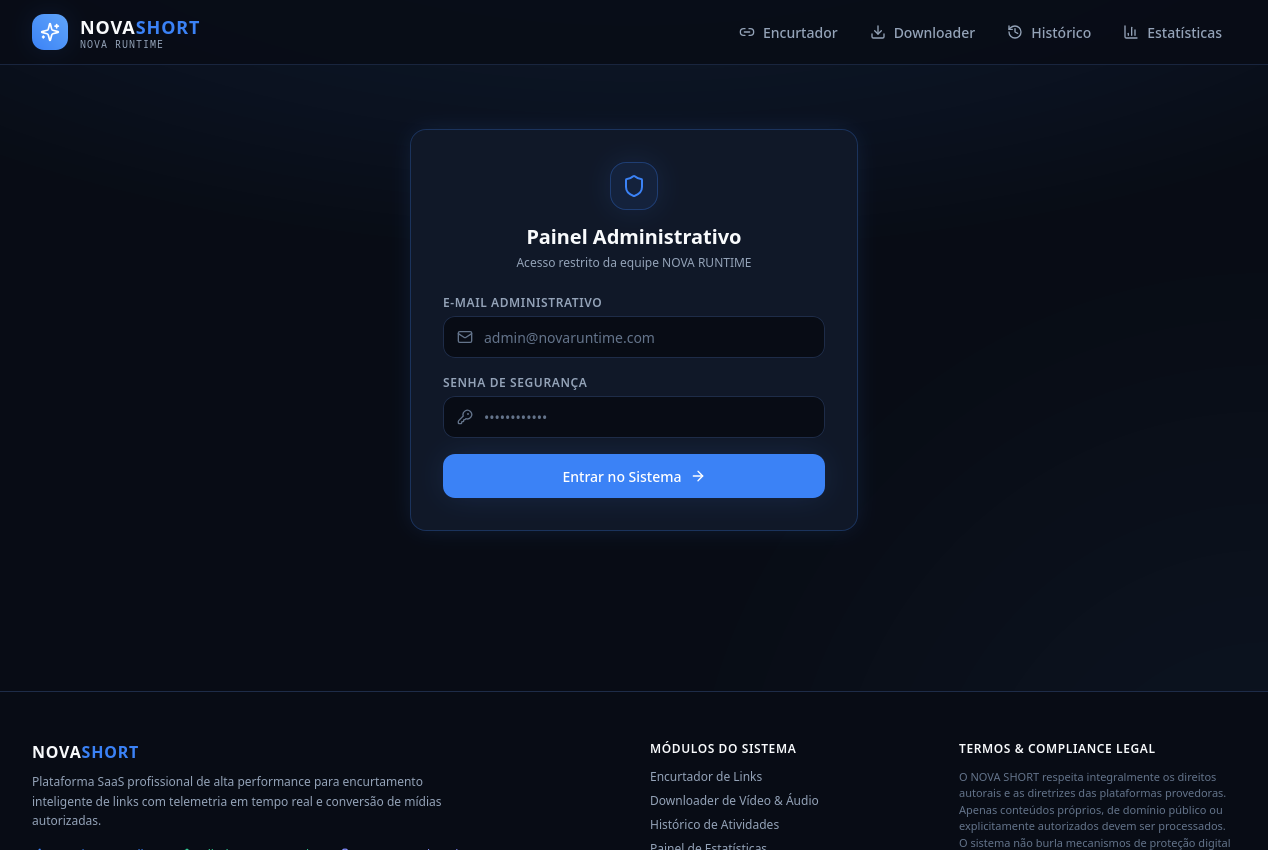
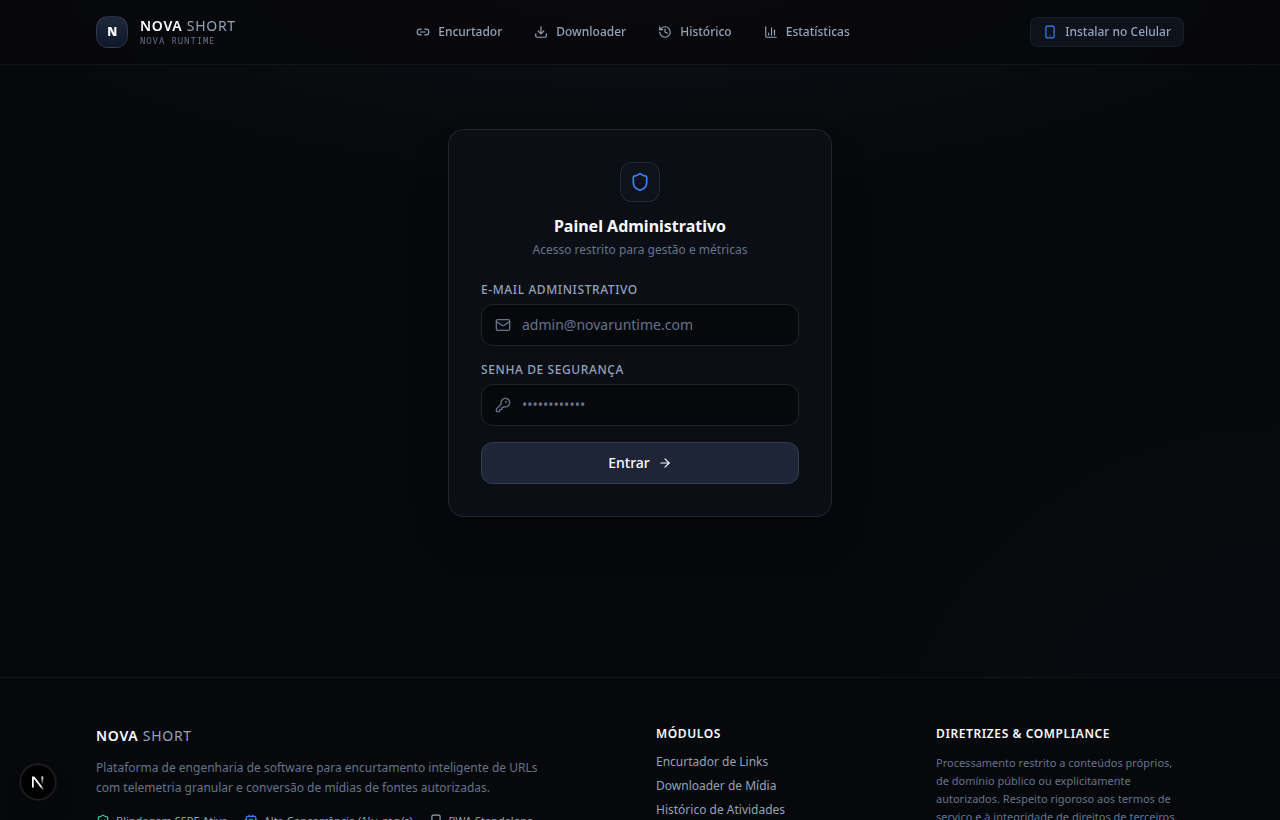
docs(screenshots): atualizar capturas de tela reais da interface obsidian noir e pwa mobile

diff --git a/src/components/PWAInstallModal.tsx b/src/components/PWAInstallModal.tsx
@@ -1,6 +1,7 @@
 "use client";
 
 import { useState, useEffect } from "react";
+import { createPortal } from "react-dom";
 import { Smartphone, Download, Share, PlusSquare, X, CheckCircle2 } from "lucide-react";
 
 interface BeforeInstallPromptEvent extends Event {
@@ -14,20 +15,19 @@ export function PWAInstallModal() {
   const [isIOS, setIsIOS] = useState(false);
   const [isStandalone, setIsStandalone] = useState(false);
   const [installed, setInstalled] = useState(false);
+  const [mounted, setMounted] = useState(false);
 
   useEffect(() => {
-    // Detectar se já está rodando como PWA instalado (standalone)
+    setMounted(true);
     const isStandaloneMode =
       window.matchMedia("(display-mode: standalone)").matches ||
       (window.navigator as unknown as { standalone?: boolean }).standalone === true;
     setIsStandalone(isStandaloneMode);
 
-    // Detectar se é dispositivo iOS
     const ua = window.navigator.userAgent.toLowerCase();
     const isIosDevice = /iphone|ipad|ipod/.test(ua);
     setIsIOS(isIosDevice);
 
-    // Capturar evento de instalação nativo no Android / Chromium
     const handleBeforeInstall = (e: Event) => {
       e.preventDefault();
       setDeferredPrompt(e as BeforeInstallPromptEvent);
@@ -35,7 +35,6 @@ export function PWAInstallModal() {
 
     window.addEventListener("beforeinstallprompt", handleBeforeInstall);
 
-    // Ouvir quando o app for instalado
     window.addEventListener("appinstalled", () => {
       setInstalled(true);
       setDeferredPrompt(null);
@@ -57,15 +56,126 @@ export function PWAInstallModal() {
       }
       setDeferredPrompt(null);
     } else {
-      // Abre o modal informativo com instruções
       setIsOpen(true);
     }
   };
 
-  // Se já estiver em modo app instalado, não precisa exibir botão de instalação
   if (isStandalone || installed) {
     return null;
   }
+
+  const modalContent = isOpen ? (
+    <div
+      role="dialog"
+      aria-modal="true"
+      className="fixed inset-0 z-[9999] flex items-center justify-center p-4 bg-black/80 backdrop-blur-md animate-fade-in"
+      onClick={() => setIsOpen(false)}
+    >
+      <div
+        className="w-full max-w-sm rounded-2xl bg-[#0B0E14] border border-white/10 p-6 text-left shadow-2xl relative"
+        onClick={(e) => e.stopPropagation()}
+      >
+        {/* Fechar */}
+        <button
+          onClick={() => setIsOpen(false)}
+          className="absolute top-4 right-4 p-1.5 rounded-lg text-[#64748B] hover:text-[#F8FAFC] hover:bg-white/5 transition-colors cursor-pointer"
+          aria-label="Fechar"
+        >
+          <X className="w-4 h-4" />
+        </button>
+
+        {/* Cabeçalho */}
+        <div className="flex items-center space-x-3 mb-4">
+          <div className="w-10 h-10 rounded-xl bg-[#0E121B] border border-white/10 flex items-center justify-center text-[#3B82F6] shadow-sm">
+            <Smartphone className="w-5 h-5" />
+          </div>
+          <div>
+            <h3 className="text-sm font-semibold text-[#F8FAFC]">Instalar NOVA SHORT</h3>
+            <p className="text-xs text-[#94A3B8]">Acesse direto da sua tela de início</p>
+          </div>
+        </div>
+
+        {/* Conteúdo com Passo a Passo */}
+        <div className="space-y-3.5 my-5 text-xs text-[#94A3B8]">
+          {isIOS ? (
+            <>
+              <p className="text-[#CBD5E1]">
+                No iPhone/iPad pelo Safari, adicione o ícone em apenas 2 toques:
+              </p>
+              <div className="flex items-start space-x-3 p-3 rounded-xl bg-[#07080B] border border-white/5">
+                <Share className="w-4 h-4 text-[#3B82F6] flex-shrink-0 mt-0.5" />
+                <span>
+                  1. Toque no botão <strong>Compartilhar</strong> (ícone quadrado com seta no rodapé do Safari).
+                </span>
+              </div>
+              <div className="flex items-start space-x-3 p-3 rounded-xl bg-[#07080B] border border-white/5">
+                <PlusSquare className="w-4 h-4 text-[#3B82F6] flex-shrink-0 mt-0.5" />
+                <span>
+                  2. Role a lista e selecione <strong>&quot;Adicionar à Tela de Início&quot;</strong>.
+                </span>
+              </div>
+            </>
+          ) : deferredPrompt ? (
+            <div className="text-center py-2">
+              <p className="text-[#CBD5E1] mb-4">
+                Instale como um aplicativo leve, sem gastar memória da Play Store e com abertura instantânea.
+              </p>
+              <button
+                type="button"
+                onClick={async () => {
+                  if (deferredPrompt) {
+                    await deferredPrompt.prompt();
+                    const choice = await deferredPrompt.userChoice;
+                    if (choice.outcome === "accepted") {
+                      setInstalled(true);
+                      setIsOpen(false);
+                    }
+                  }
+                }}
+                className="w-full inline-flex items-center justify-center space-x-2 py-2.5 px-4 rounded-xl bg-[#1E2536] hover:bg-[#253046] border border-white/10 text-white font-medium text-xs transition-all shadow-md cursor-pointer"
+              >
+                <Download className="w-4 h-4" />
+                <span>Confirmar Instalação</span>
+              </button>
+            </div>
+          ) : (
+            <>
+              <p className="text-[#CBD5E1]">
+                Para fixar o app no seu smartphone Android ou navegador:
+              </p>
+              <div className="flex items-start space-x-3 p-3 rounded-xl bg-[#07080B] border border-white/5">
+                <Download className="w-4 h-4 text-[#3B82F6] flex-shrink-0 mt-0.5" />
+                <span>
+                  1. Toque nos <strong>três pontos</strong> do menu do navegador (topo direito).
+                </span>
+              </div>
+              <div className="flex items-start space-x-3 p-3 rounded-xl bg-[#07080B] border border-white/5">
+                <PlusSquare className="w-4 h-4 text-[#3B82F6] flex-shrink-0 mt-0.5" />
+                <span>
+                  2. Selecione <strong>&quot;Instalar aplicativo&quot;</strong> ou <strong>&quot;Adicionar à tela inicial&quot;</strong>.
+                </span>
+              </div>
+            </>
+          )}
+        </div>
+
+        {/* Rodapé Informativo */}
+        <div className="pt-3 border-t border-white/5 flex items-center justify-between text-[11px] text-[#64748B]">
+          <span className="flex items-center space-x-1.5">
+            <CheckCircle2 className="w-3.5 h-3.5 text-emerald-500" />
+            <span>PWA Standalone • Sem Anúncios</span>
+          </span>
+          <button
+            type="button"
+            onClick={() => setIsOpen(false)}
+            className="text-[#94A3B8] hover:text-[#F8FAFC] transition-colors cursor-pointer"
+          >
+            Fechar
+          </button>
+        </div>
+      </div>
+    </div>
+  ) : null;
 
   return (
     <>
@@ -81,119 +191,7 @@ export function PWAInstallModal() {
         <span className="sm:hidden">App</span>
       </button>
 
-      {/* Modal de Instalação PWA */}
-      {isOpen && (
-        <div
-          role="dialog"
-          aria-modal="true"
-          className="fixed inset-0 z-50 flex items-center justify-center p-4 bg-black/75 backdrop-blur-md animate-fade-in"
-          onClick={() => setIsOpen(false)}
-        >
-          <div
-            className="w-full max-w-sm rounded-2xl bg-[#0B0E14] border border-white/10 p-6 text-left shadow-2xl relative"
-            onClick={(e) => e.stopPropagation()}
-          >
-            {/* Fechar */}
-            <button
-              onClick={() => setIsOpen(false)}
-              className="absolute top-4 right-4 p-1.5 rounded-lg text-[#64748B] hover:text-[#F8FAFC] hover:bg-white/5 transition-colors"
-              aria-label="Fechar"
-            >
-              <X className="w-4 h-4" />
-            </button>
-
-            {/* Cabeçalho */}
-            <div className="flex items-center space-x-3 mb-4">
-              <div className="w-10 h-10 rounded-xl bg-gradient-to-tr from-[#1E293B] to-[#0F172A] border border-white/10 flex items-center justify-center text-[#3B82F6] shadow-sm">
-                <Smartphone className="w-5 h-5" />
-              </div>
-              <div>
-                <h3 className="text-sm font-semibold text-[#F8FAFC]">Instalar NOVA SHORT</h3>
-                <p className="text-xs text-[#94A3B8]">Acesse direto da sua tela de início</p>
-              </div>
-            </div>
-
-            {/* Conteúdo com Passo a Passo */}
-            <div className="space-y-3.5 my-5 text-xs text-[#94A3B8]">
-              {isIOS ? (
-                <>
-                  <p className="text-[#CBD5E1]">
-                    No iPhone/iPad pelo Safari, adicione o ícone em apenas 2 toques:
-                  </p>
-                  <div className="flex items-start space-x-3 p-3 rounded-xl bg-[#07080B] border border-white/5">
-                    <Share className="w-4 h-4 text-[#3B82F6] flex-shrink-0 mt-0.5" />
-                    <span>
-                      1. Toque no botão <strong>Compartilhar</strong> (ícone quadrado com seta no rodapé do Safari).
-                    </span>
-                  </div>
-                  <div className="flex items-start space-x-3 p-3 rounded-xl bg-[#07080B] border border-white/5">
-                    <PlusSquare className="w-4 h-4 text-[#3B82F6] flex-shrink-0 mt-0.5" />
-                    <span>
-                      2. Role a lista e selecione <strong>&quot;Adicionar à Tela de Início&quot;</strong>.
-                    </span>
-                  </div>
-                </>
-              ) : deferredPrompt ? (
-                <div className="text-center py-2">
-                  <p className="text-[#CBD5E1] mb-4">
-                    Instale como um aplicativo leve, sem gastar memória da Play Store e com abertura instantânea.
-                  </p>
-                  <button
-                    type="button"
-                    onClick={async () => {
-                      if (deferredPrompt) {
-                        await deferredPrompt.prompt();
-                        const choice = await deferredPrompt.userChoice;
-                        if (choice.outcome === "accepted") {
-                          setInstalled(true);
-                          setIsOpen(false);
-                        }
-                      }
-                    }}
-                    className="w-full inline-flex items-center justify-center space-x-2 py-2.5 px-4 rounded-xl bg-[#3B82F6] hover:bg-[#2563EB] text-white font-medium text-xs transition-all shadow-md cursor-pointer"
-                  >
-                    <Download className="w-4 h-4" />
-                    <span>Confirmar Instalação</span>
-                  </button>
-                </div>
-              ) : (
-                <>
-                  <p className="text-[#CBD5E1]">
-                    Para fixar o app no seu smartphone Android ou navegador:
-                  </p>
-                  <div className="flex items-start space-x-3 p-3 rounded-xl bg-[#07080B] border border-white/5">
-                    <Download className="w-4 h-4 text-[#3B82F6] flex-shrink-0 mt-0.5" />
-                    <span>
-                      1. Toque nos <strong>três pontos</strong> do menu do navegador (topo direito).
-                    </span>
-                  </div>
-                  <div className="flex items-start space-x-3 p-3 rounded-xl bg-[#07080B] border border-white/5">
-                    <PlusSquare className="w-4 h-4 text-[#3B82F6] flex-shrink-0 mt-0.5" />
-                    <span>
-                      2. Selecione <strong>&quot;Instalar aplicativo&quot;</strong> ou <strong>&quot;Adicionar à tela inicial&quot;</strong>.
-                    </span>
-                  </div>
-                </>
-              )}
-            </div>
-
-            {/* Rodapé Informativo */}
-            <div className="pt-3 border-t border-white/5 flex items-center justify-between text-[11px] text-[#64748B]">
-              <span className="flex items-center space-x-1.5">
-                <CheckCircle2 className="w-3.5 h-3.5 text-emerald-500" />
-                <span>PWA Standalone • Sem Anúncios</span>
-              </span>
-              <button
-                type="button"
-                onClick={() => setIsOpen(false)}
-                className="text-[#94A3B8] hover:text-[#F8FAFC] transition-colors"
-              >
-                Fechar
-              </button>
-            </div>
-          </div>
-        </div>
-      )}
+      {mounted && modalContent && createPortal(modalContent, document.body)}
     </>
   );
 }

diff --git a/src/app/estatisticas/page.tsx b/src/app/estatisticas/page.tsx
@@ -17,45 +17,45 @@ export default function EstatisticasOverviewPage() {
   };
 
   return (
-    <div className="flex-1 max-w-3xl mx-auto px-4 sm:px-6 py-16 w-full flex flex-col items-center justify-center">
+    <div className="flex-1 max-w-2xl mx-auto px-4 sm:px-6 py-16 w-full flex flex-col items-center justify-center">
       <div className="text-center mb-8">
-        <div className="inline-flex items-center space-x-2 px-3 py-1 rounded-full bg-[#101828] border border-[#3B82F6]/30 text-xs text-[#60A5FA] mb-3">
-          <TrendingUp className="w-3.5 h-3.5" />
-          <span>Analytics & Telemetria</span>
+        <div className="inline-flex items-center space-x-2 px-3 py-1 rounded-full bg-[#0E121B] border border-white/10 text-[11px] text-[#94A3B8] mb-3 tracking-wide">
+          <TrendingUp className="w-3.5 h-3.5 text-[#3B82F6]" />
+          <span>ANALYTICS & TELEMETRIA</span>
         </div>
-        <h1 className="text-3xl font-extrabold text-[#F8FAFC]">Estatísticas de Links</h1>
-        <p className="text-xs sm:text-sm text-[#94A3B8] max-w-md mx-auto mt-2">
-          Insira o código do slug para visualizar o painel completo de métricas, dispositivos e origens de tráfego.
+        <h1 className="text-2xl sm:text-3xl font-bold text-[#F8FAFC]">Estatísticas de Acesso</h1>
+        <p className="text-xs sm:text-sm text-[#94A3B8] max-w-md mx-auto mt-1.5 leading-relaxed">
+          Consulte o relatório consolidado de cliques, dispositivos e distribuição geográfica de qualquer link.
         </p>
       </div>
 
-      <div className="w-full bg-[#101828] border border-[#1E2C48] rounded-2xl p-6 sm:p-8 shadow-nova-card nova-glow-border">
+      <div className="w-full bg-[#0B0E14] border border-white/10 rounded-2xl p-6 sm:p-8 shadow-2xl">
         <form onSubmit={handleSearch} className="space-y-4">
           <div>
-            <label htmlFor="slug-search" className="block text-xs font-semibold uppercase tracking-wider text-[#94A3B8] mb-2">
-              Código ou URL Encurtada
+            <label htmlFor="slug-search" className="block text-xs font-medium uppercase tracking-wider text-[#94A3B8] mb-2">
+              Slug ou Link Encurtado
             </label>
             <div className="relative">
-              <Search className="w-5 h-5 text-[#3B82F6] absolute left-3.5 top-1/2 -translate-y-1/2" />
+              <Search className="w-4 h-4 text-[#64748B] absolute left-3.5 top-1/2 -translate-y-1/2" />
               <input
                 id="slug-search"
                 type="text"
                 required
                 value={slug}
                 onChange={(e) => setSlug(e.target.value)}
-                placeholder="Ex: meu-link ou https://.../s/meu-link"
-                className="w-full pl-11 pr-4 py-3 bg-[#080C15] border border-[#1E2C48] rounded-xl text-sm text-[#F8FAFC] placeholder-[#64748B] focus:outline-none focus:border-[#3B82F6]"
+                placeholder="Ex: meu-link ou cole o link curto..."
+                className="w-full pl-10 pr-4 py-3 bg-[#07080B] border border-white/10 rounded-xl text-xs sm:text-sm text-[#F8FAFC] placeholder-[#64748B] focus:outline-none focus:border-white/30"
               />
             </div>
           </div>
 
           <button
             type="submit"
-            className="w-full py-3 px-6 rounded-xl bg-[#3B82F6] hover:bg-[#60A5FA] text-white font-medium text-sm flex items-center justify-center space-x-2 transition-all shadow-nova-glow"
+            className="w-full py-3 px-6 rounded-xl bg-[#1E2536] hover:bg-[#253046] border border-white/10 text-white font-medium text-xs sm:text-sm flex items-center justify-center space-x-2 transition-all cursor-pointer"
           >
-            <BarChart3 className="w-4 h-4" />
-            <span>Consultar Estatísticas</span>
-            <ArrowRight className="w-4 h-4 ml-1" />
+            <BarChart3 className="w-3.5 h-3.5" />
+            <span>Consultar Métricas</span>
+            <ArrowRight className="w-3.5 h-3.5 ml-1" />
           </button>
         </form>
       </div>

diff --git a/README.md b/README.md
@@ -102,6 +102,17 @@ Construído sob uma arquitetura resiliente no **Next.js 15 App Router** com tipa
 
 ---
 
+### 6. Experiência Mobile & Suporte PWA (Instalação no Celular)
+> Design responsivo otimizado para smartphones com suporte nativo a Progressive Web App (PWA), permitindo adicionar o ícone à tela de início no iOS Safari e Android Chrome para uso imediato como aplicativo.
+
+<p align="center">
+  <img src="https://raw.githubusercontent.com/BrunoRafa01/Nova-Short/main/docs/images/mobile-hero.png" alt="Visualização Mobile no Smartphone" width="42%" />
+  &nbsp;&nbsp;&nbsp;&nbsp;
+  <img src="https://raw.githubusercontent.com/BrunoRafa01/Nova-Short/main/docs/images/mobile-pwa.png" alt="Modal de Instalação PWA" width="42%" />
+</p>
+
+---
+
 ## ⚡ Funcionalidades Principais
 
 | Módulo | Recursos Principais |
